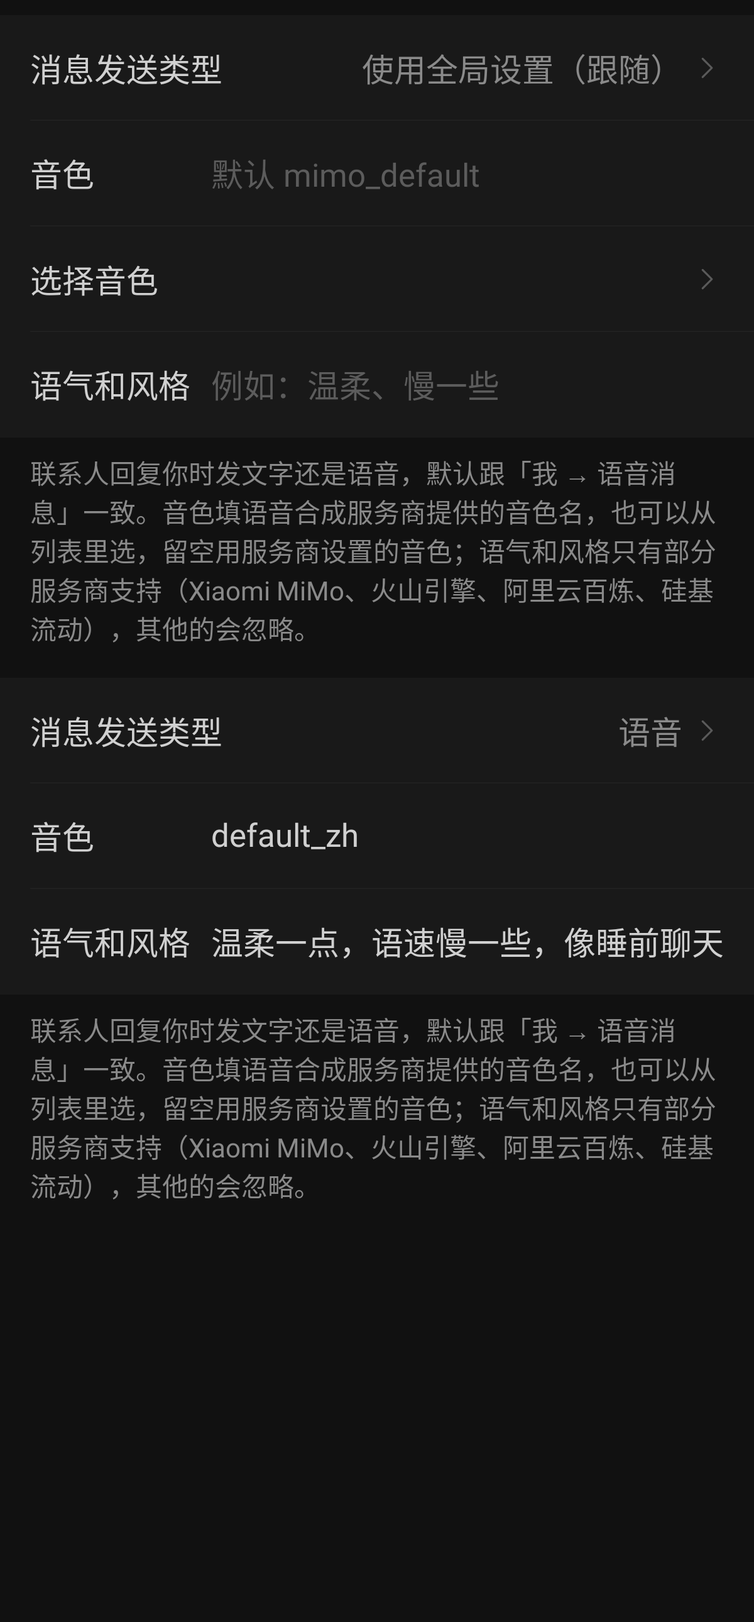
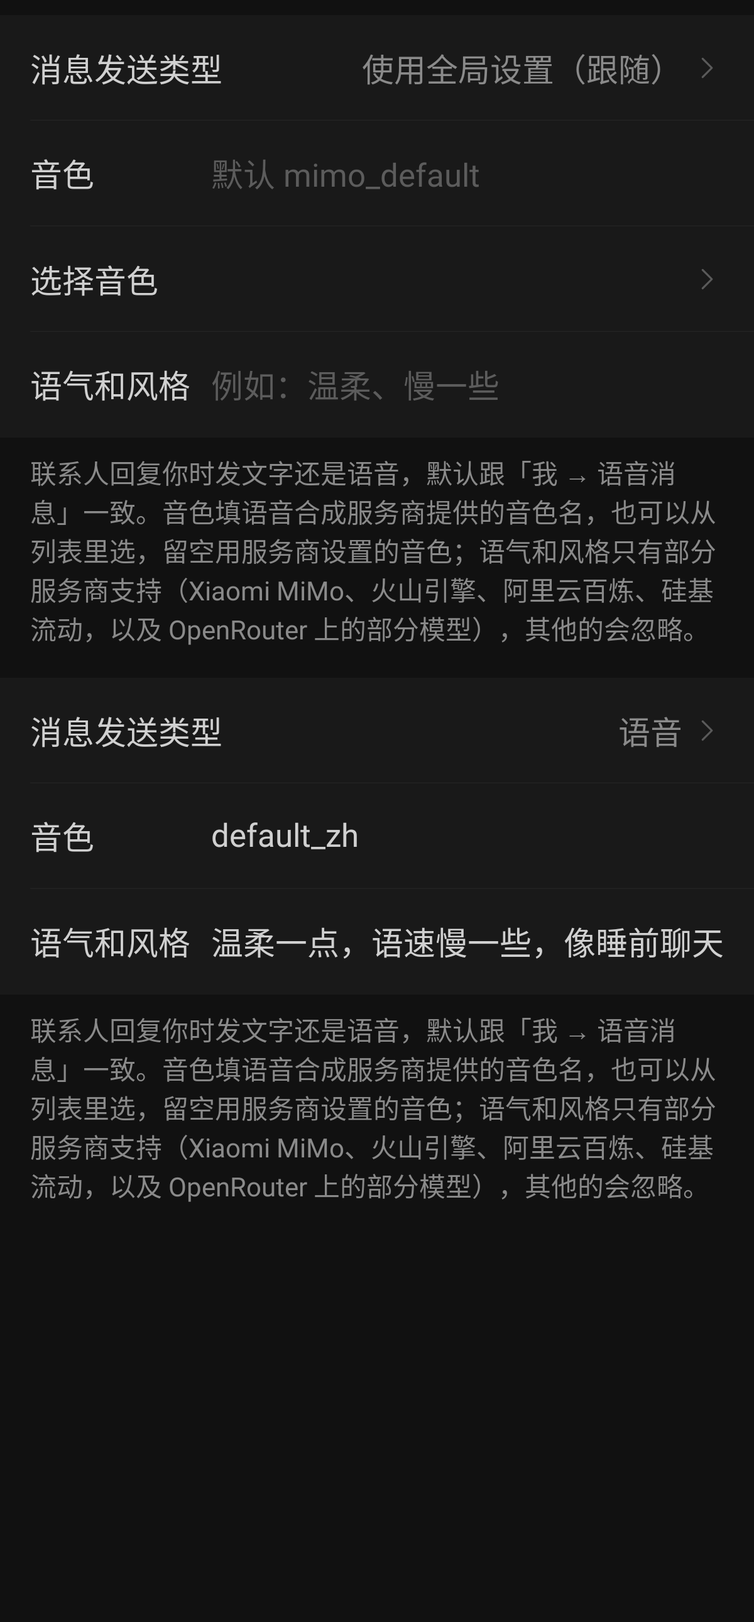
docs: 全面审查文档，修正 0.7.2 过时和遗漏的描述；联系人页语气风格说明补上 OpenRouter
- README：预置家数、试听、请求等待、目录说明、模拟接口的范围、版本历史
- 设计方案：语气风格的服务商、服务商编辑页、百炼聊天预置地址、429 按错误码、v7 → v8 迁移、新格式名、风险表
- 路线图：文首、内容分类、0.7.2 状态和验收标准、结果顺序、1.0.0 回归、未来储备、附录
- 隐私草稿：WAV 和 pcm 压成 AAC、智谱分段上传、语气风格的服务商
- 0.7.2 更新说明：智谱的 AI 生成标识、海外服务器、OpenRouter 转发、手填音色
- 界面：联系人编辑页的语音说明（重录 76-contact-voice 两张截图）

diff --git a/app/src/main/java/isomeria/aichat/data/voice/VoiceApi.kt b/app/src/main/java/isomeria/aichat/data/voice/VoiceApi.kt
@@ -144,7 +144,7 @@ class AsrRequest(val model: String, val wav: ByteArray, val language: String = L
     }
 }
 
-/** 识别结果；[seconds] 是服务商报告的音频时长（MiMo、百炼的 usage.seconds，火山的 audio_info.duration），没有时为 null。 */
+/** 识别结果；[seconds] 是服务商报告的音频时长（MiMo、百炼、OpenRouter 的 usage.seconds，火山的 audio_info.duration，Fish Audio 的 duration），没有时为 null。 */
 data class AsrResult(val text: String, val seconds: Double? = null) {
     override fun toString() = "AsrResult(chars=${text.length}, seconds=$seconds)"
 }

diff --git a/docs/roadmap.md b/docs/roadmap.md
@@ -2,9 +2,9 @@
 
 适用范围：以已发布的 v0.4.1 为基线（0.4.2～0.7.1 的变化记在各自小节），规划 v0.7.2 至 v1.0.0；v0.4.0～v0.7.1 保留为已完成记录
 平台：Android 14+（minSdk 34，targetSdk 37），包名 isomeria.aichat，数据全部本地存储
-更新于 2026-11-12。**v0.7.1 / versionCode 701 已于 2026-11-12 发布，是当前正式版。** 用户 2026-11-12 决定下一个版本先做 0.7.2（在 0.8.0 之前继续打磨），同日给出三项内容（自动记忆提炼重点、导出时选择内容、更多语音服务商和选音色），全部按讨论时的推荐做法定下并开工，在 `feature/0.7.2` 开发中；0.8.0（语音通话）排在它后面。
+更新于 2026-11-12。**v0.7.1 / versionCode 701 已于 2026-11-12 发布，是当前正式版。** 用户 2026-11-12 决定下一个版本先做 0.7.2（在 0.8.0 之前继续打磨），同日给出三项内容（自动记忆提炼重点、导出时选择内容、更多语音服务商和选音色），全部按讨论时的推荐做法定下并开工；第一次门禁后又补充了智谱、Fish Audio 识别和 OpenRouter 三家语音服务商（0.7.2 小节的 3b），在 `feature/0.7.2` 开发中，还没有真机验证；0.8.0（语音通话）排在它后面。
 
-内容分三类：第二节（v0.4.1 基线）和 0.4.0～0.7.1 小节是已发布事实，0.4.2～0.6.0 小节前半是实际结果，后半保留原计划；0.7.0、0.7.1 小节前面是计划，末尾“开发结果”是实际结果；0.7.2 起的小节是未来计划，其中“现在”“现有”在第二节指 v0.4.1 的实现，在 0.6.0 及以后的原计划部分指写计划时（0.4.2）的实现，0.5.0～0.7.0 带来的变化以各自小节为准。附录是修订历史，附录里的“当前/下一个”只代表当时。
+内容分三类：第二节（v0.4.1 基线）和 0.4.0～0.7.1 小节是已发布事实，0.4.2～0.6.0 小节前半是实际结果，后半保留原计划；0.7.0、0.7.1 小节前面是计划，末尾“开发结果”是实际结果；0.7.2 小节同样前面是计划、末尾是开发中的结果（还没发布）；0.8.0 起的小节是未来计划，其中“现在”“现有”在第二节指 v0.4.1 的实现，在 0.6.0 及以后的原计划部分指写计划时（0.4.2）的实现，0.5.0～0.7.0 带来的变化以各自小节为准。附录是修订历史，附录里的“当前/下一个”只代表当时。
 
 本文的产品取舍已按用户 2026-11-07 最新确认的《智信 AIChat 更新计划.md》更新，开发时直接执行，不再逐项询问；实施中出现文档没有覆盖的实质问题时再问。
 
@@ -632,7 +632,7 @@
 
 ### 0.7.2 继续打磨（开发中）
 
-**状态**：用户 2026-11-12（0.7.1 发布后）决定在 0.8.0 之前另开 0.7.2 继续打磨，同日给出三项内容；讨论后用户让三项和其中要定的问题全部按推荐做法来，并同意开工。在 `feature/0.7.2`（从 `main` `f3baea5` 出发）开发，三项分别提交。真机验证前先问用户，发布要用户另外同意。
+**状态**：用户 2026-11-12（0.7.1 发布后）决定在 0.8.0 之前另开 0.7.2 继续打磨，同日给出三项内容；讨论后用户让三项和其中要定的问题全部按推荐做法来，并同意开工。在 `feature/0.7.2`（从 `main` `f3baea5` 出发）开发，三项分别提交；第一次门禁后用户又提出 3b，同样梳理、按推荐做完。真机验证前先问用户，发布要用户另外同意。
 
 **1. 自动记忆提炼重点（用户的要求：自动生成的记忆要总结出重要内容，不然占的上下文太长，还会影响模型注意力）**
 
@@ -671,15 +671,15 @@
 
 - 上下文开得很大时记忆总量不超过约 1500 token；近期记忆超出时整理出核心记忆，整理期间用户改了记忆就放弃这次整理；没有值得记的聊天不生成记忆；Room 7 → 8 迁移后旧记忆不丢；
 - 只导出一部分时文件里只有选中的内容和它们用到的文件，API Key 只跟着模型配置；恢复只替换选中的，没选的不变；联系人找不到服务商时提醒；0.7.1 的备份照常恢复；
-- 各家格式对着本机模拟接口的请求和返回都按官方文档；选音色页能搜索、试听，缺 Key、地址不对时说明原因；
+- 各家格式对着本机模拟接口的请求和返回都按官方文档；选音色页能搜索、试听，缺 Key、地址不对时说明原因；智谱识别超过 30 秒的录音能分段识别、拼起来；智谱的余额不足不被说成请求过快；
 - 不调用真实服务商；新格式能不能真正用通要用户拿自己的 Key 试。
 
 **开发结果（2026-11-12，`feature/0.7.2`，开发中）：**
 
 - 分批提交：`8b92e89` 记忆分两层（Room v8）、`b664437` 导出和恢复选择内容（备份 v8）、`4e77c46` 语音服务商预置和选音色，之后是版本号、文档和截图；第一次门禁后另加 3b 的智谱、Fish Audio 识别和 OpenRouter（见下）。
 - **和计划不同或计划没写的**：试听**不计入用量统计**（讨论时说的是计入）：试听不属于哪个联系人，记到“已删除的联系人”会让统计看起来不对，所以只在页面上写明可能计费；内置的火山 2.0 音色列表按官方页面整理了 93 个（页面后半段没能读到，另外去掉了一个名称不合适的），百炼列了中文、英文、方言和其他系统音色共 88 个（小语种音色没有列），列表外的音色仍可手填 ID；MiniMax 国内地址用官方文档里的 `api.minimax.cn`；Fish Audio 的默认音色留空，要在选音色页选或手填。
-- 3b 的结果：`ebebb0b` 功能、`f7b1a45` 文档。无缓存门禁在 `f7b1a45` 上通过，1234 项 JVM 测试 0 失败 0 跳过，lint 0 错误、6 条依赖版本提示（同上），debug、release、perf 包构建成功；release 包名、版本 0.7.2 / 702 和签名证书已核对，release 包 15,033,045 字节、perf 包 15,052,253 字节。反向确认 20 处（智谱错误码和聊天接口的分类、分段和静音切点、prompt、wav、Fish 的字段和标记、pcm 的采样率、Gemini 要 pcm、instructions、usage.seconds、预置顺序和模型、智谱音色列表的参数和错误）都被测试抓到。新增截图：智谱识别和 OpenRouter 合成的服务商页、智谱选音色页、没有内置列表的选音色页。
 - 验证（3b 之前）：无缓存门禁在 `32471fe` 上通过，1209 项 JVM 测试（0.7.1 是 1157 项）0 失败 0 跳过，lint 0 错误、6 条依赖版本提示（和 0.7.1 相同，都是上游的新版本），debug、release、perf 包构建成功；release 包名、版本 0.7.2 / 702 和签名证书（与此前各版相同）已核对，签名文件与原备份哈希一致；perf 包 15,031,433 字节、release 包 15,012,273 字节，原生库和 0.7.1 一样（sherpa-onnx 只带 arm64-v8a）。
+- 3b 的结果：`ebebb0b` 功能、`f7b1a45` 文档。无缓存门禁在 `f7b1a45` 上通过，1234 项 JVM 测试 0 失败 0 跳过，lint 0 错误、6 条依赖版本提示（同上），debug、release、perf 包构建成功；release 包名、版本 0.7.2 / 702 和签名证书已核对，release 包 15,033,045 字节、perf 包 15,052,253 字节。反向确认 20 处（智谱错误码和聊天接口的分类、分段和静音切点、prompt、wav、Fish 的字段和标记、pcm 的采样率、Gemini 要 pcm、instructions、usage.seconds、预置顺序和模型、智谱音色列表的参数和错误）都被测试抓到。新增截图：智谱识别和 OpenRouter 合成的服务商页、智谱选音色页、没有内置列表的选音色页。
 - **没有做的**：没有调用任何真实的语音服务商，十种新格式（3b 又加了四种）和音色接口只对着官方文档和本机模拟接口测过；没有真机验证。
 
 ---
@@ -789,7 +789,7 @@
 - 后台投递、主动聊天、语音消息、离线识别模型的下载和语音通话在 App 被杀和设备重启后的表现；
 - 每日额度的计数与按日重置；
 - **之前明确留到这一轮的：** TalkBack 实际朗读、系统字体 2.0 叠加 App 特大、手势返回、横屏；
-- **七家预置的真实聊天、图片、思考、记忆请求**，至今只用模拟接口测过（真实调用先问用户，用户提供 Key）；
+- **七家预置的真实聊天、图片、思考、记忆请求**，至今只用模拟接口测过（真实调用先问用户，用户提供 Key）；0.7.2 的语音服务商格式同样只按文档和模拟接口做过，用户实测之外要逐家核对；
 - 图片查看的保存按钮、表情删除键等此前未完整实测的交互，先查对应验证记录，仅对缺失或受影响的部分补测，不把静态截图当作交互通过。
 
 **2. README 与隐私说明定稿**
@@ -817,7 +817,7 @@
 - AI 自动从聊天中提取并更新全局记忆（0.5.0 只做了用户手写的全局记忆，发送全部已启用条目，没有自动提取和自动挑选）
 - 数据库加密（SQLCipher），见下
 - 媒体文件加密
-- 更多 TTS / ASR 服务商适配
+- 更多 TTS / ASR 服务商适配（0.7.2 已预置合成 8 家、识别 7 家）
 - 语音通话的降噪、蓝牙路由和更细的音频设备切换
 - 全局聊天背景（0.4.2 只做单个聊天背景，0.9.0 未列入）
 
@@ -836,9 +836,9 @@
 
 ## 附录 T：2026-11-12 0.7.2 开工（当前）
 
-- 门禁后用户又加了语音服务商（智谱、Fish Audio 识别、OpenRouter），梳理后按推荐开工，写入 0.7.2 小节的 3b；README、设计方案、隐私草稿、更新说明同步。
-
 - 用户给出 0.7.2 的三项内容，讨论后全部按推荐做法定下并同意开工。文首、版本总览、依赖关系和 0.7.2 小节写入目标、做法、数据变化、验收标准和开发结果；README、设计方案、隐私草稿同步；新增 `docs/release-notes/v0.7.2.md`。桌面更新计划还没有 0.7.2，未改（只在用户要求时改）。
+- 门禁后用户又加了语音服务商（智谱、Fish Audio 识别、OpenRouter），梳理后按推荐开工，写入 0.7.2 小节的 3b；README、设计方案、隐私草稿、更新说明同步。
+- 用户要求全面审查文档：改了 README（预置家数、试听、目录说明、模拟接口的范围）、设计方案（语气风格的服务商、服务商编辑页、百炼聊天预置地址、429 的处理、v7 → v8 迁移、新格式名、风险表）、路线图（文首、内容分类、验收标准、结果的顺序、1.0.0 回归、未来储备）、隐私草稿（WAV 和 pcm 压成 AAC、智谱分段上传、语气风格的服务商）和 0.7.2 更新说明；顺带把联系人编辑页语音说明里支持语气风格的服务商补上 OpenRouter，改了界面文字，重跑门禁。
 
 ## 附录 S：2026-11-12 插入 0.7.2（历史）
 

diff --git a/docs/privacy-draft.md b/docs/privacy-draft.md
@@ -18,7 +18,7 @@
 | 全局记忆（0.5.0 起）：用户手写的类别、主题和条目 | 应用私有目录的 Room 数据库 | 系统的应用隔离和全盘加密；App 没有另外加密。开启“使用全局记忆”的联系人会把已启用的条目发给它的服务商，见下 |
 | API Key | 数据库的服务商配置表 | Android Keystore 加密后存放 |
 | 聊天图片、头像 | 应用私有目录 `files/images`、`files/avatars` | 系统的应用隔离和全盘加密 |
-| 语音消息（0.7.0 起）：用户的录音和联系人回复合成出的语音，转写文字存在聊天记录里 | 应用私有目录 `files/voice`。用户的录音先存 WAV，识别成功后压成 AAC（m4a）、删掉 WAV；服务商合成的语音按返回的格式保存（如 mp3），0.7.1 起系统语音合成的语音压成 AAC（m4a）保存 | 系统的应用隔离和全盘加密；计入存储空间；删除消息、清空聊天、删除联系人时一起删除；随导出文件导出 |
+| 语音消息（0.7.0 起）：用户的录音和联系人回复合成出的语音，转写文字存在聊天记录里 | 应用私有目录 `files/voice`。用户的录音先存 WAV，识别成功后压成 AAC（m4a）、删掉 WAV；服务商合成的语音按返回的格式保存（如 mp3），0.7.1 起系统语音合成的语音压成 AAC（m4a）保存，0.7.2 起服务商返回 WAV（智谱）或裸 pcm（OpenRouter 上的部分模型，先包成 WAV）时也压成 AAC | 系统的应用隔离和全盘加密；计入存储空间；删除消息、清空聊天、删除联系人时一起删除；随导出文件导出 |
 | 语音服务商（0.7.0 起）：语音合成和语音识别的地址、模型、音色和 API Key | 数据库的服务商配置表 | API Key 和大语言模型的一样经 Android Keystore 加密 |
 | 离线识别模型（0.7.1 起）：SenseVoice Small 的模型文件（约 239.5 MB）和词表，下载中的部分叫 `.part` | 应用私有目录 `files/asr-models` | 系统的应用隔离和全盘加密；计入存储空间；在离线识别页删除；不随导出文件导出 |
 | 聊天背景 | 应用私有目录 `files/background`，用户从相册选的图片重新压缩后的副本，不含 EXIF | 系统的应用隔离和全盘加密；只在本机显示，不发给模型服务商；删除聊天或联系人时删除 |
@@ -59,8 +59,8 @@
 | 联系人所用的模型服务商 | 发送消息、重试、重新生成 | 系统提示词、这个联系人的记忆、当前日期时间和用户昵称、预算内的聊天记录、模型参数和 API Key；模型支持图片时，还包括最近 3 张图片的压缩原图。0.5.0 起，联系人开启“使用全局记忆”时还包括**全部已启用的全局记忆条目**（连同类别和主题名称），开启“使用回复偏好”时还包括回复条数和字数的要求。0.6.0 起，开启“主动聊天”的联系人还包括一段“怎么记下约定时间”的说明。人设、记忆、全局记忆、回复偏好要求和这段说明都为空时不发送系统提示词，时间和昵称也不发送 |
 | 联系人所用的模型服务商（0.6.0 起，**没有用户操作时**） | 只有用户为这个联系人开启了“主动聊天”：后台周期检查（约 15 分钟一次）或 App 回到前台时掷中概率，或用户和联系人约好的时间到了 | 和发送消息时相同的内容（系统提示词、记忆、全局记忆、日期时间和昵称、预算内的聊天记录及最近 3 张图片、模型参数和 API Key），外加一条 App 生成的提示（现在的时间、距上一条消息多久，或约好的时间和事由）。模型决定不发时（只回 `[SKIP]`）内容同样已经发出 |
 | 联系人所用的服务商（请求记忆模型） | 自动或手动总结记忆、合并记忆（0.7.2 起改为整理核心记忆） | 联系人名称、用户昵称、要总结的聊天文字或要合并的记忆（0.7.2 起是现有的核心记忆和要整理的几条近期记忆）、模型参数和 API Key。图片只以文字“[图片]”代替 |
-| 用户选用的语音识别服务商（0.7.0 起） | 用户按住说话发出语音（回复任务先识别）、重试识别失败的语音、用输入框旁的麦克风录音转文字 | 这段录音（16 kHz 单声道 WAV，最长 60 秒）、模型名和 API Key；聊天接口格式（如 Xiaomi MiMo）还带“自动识别语言”的选项。不带聊天记录、人设和记忆 |
-| 用户选用的语音合成服务商（0.7.0 起） | 联系人这一轮回语音时（按消息发送类型：跟随模式下用户发了语音、语音模式下每次回复；语音模式下的主动消息也是，这时**没有用户操作**） | 联系人回复的文字（按长度分成一两段或几段，每段一次请求）、模型名、音色、API Key；聊天接口格式还带联系人设置的“语气和风格”（0.7.2 起火山引擎 2.0 音色、百炼和硅基流动 CosyVoice2 也带）。不带聊天记录、人设和记忆。0.7.2 起用户在选音色页点“试听”时也发一次：一句固定的话、模型名、音色和 API Key |
+| 用户选用的语音识别服务商（0.7.0 起） | 用户按住说话发出语音（回复任务先识别）、重试识别失败的语音、用输入框旁的麦克风录音转文字 | 这段录音（16 kHz 单声道 WAV，最长 60 秒）、模型名和 API Key；聊天接口格式（如 Xiaomi MiMo）还带“自动识别语言”的选项。0.7.2 起发给智谱时，超过 25 秒的录音切成几段分别上传，后一段带上前面识别出的文字。不带聊天记录、人设和记忆 |
+| 用户选用的语音合成服务商（0.7.0 起） | 联系人这一轮回语音时（按消息发送类型：跟随模式下用户发了语音、语音模式下每次回复；语音模式下的主动消息也是，这时**没有用户操作**） | 联系人回复的文字（按长度分成一两段或几段，每段一次请求）、模型名、音色、API Key；聊天接口格式还带联系人设置的“语气和风格”（0.7.2 起火山引擎 2.0 音色、百炼、硅基流动 CosyVoice2 和 OpenRouter 上的 Gemini TTS、OpenAI、Fish Audio 模型也带）。不带聊天记录、人设和记忆。0.7.2 起用户在选音色页点“试听”时也发一次：一句固定的话、模型名、音色和 API Key |
 | 用户填写的语音合成服务商地址（0.7.2 起） | 用户打开选音色页时：MiniMax 取音色列表、硅基流动取自己上传的音色、智谱取自己复刻的音色、Fish Audio 取自己的音色和热门公开音色；在 Fish Audio 的选音色页搜索时 | API Key；Fish Audio 的搜索还带用户输入的关键词。不带聊天数据。MiMo、火山引擎、百炼、智谱系统音色和 OpenRouter 上 Gemini TTS、OpenAI 模型的音色列表内置在 App 里，不联网 |
 | 手机上的系统语音合成引擎（0.7.1 起，例如手机厂商或其他 App 提供的“文字转语音”引擎） | 用户选用了“系统语音（本机）”，联系人这一轮回语音时 | 联系人回复的文字。交给手机里的引擎在本机合成：App 只选不需要联网的中文音色，并要求引擎不用联网合成；引擎是另一家 App，它自己如何处理由它的隐私政策约束 |
 | 魔搭社区（ModelScope，`www.modelscope.cn`，下载时跳转到它的 CDN `*.modelscope.cn`）（0.7.1 起） | 用户在离线识别页点“下载模型”或“继续下载”，确认之后；回到桌面也接着下（前台任务），断网时等网络恢复再接着下（最多重试 5 次） | 普通 HTTP 请求（文件名和断点续传的位置），不带任何聊天数据、录音或 Key；对方能看到设备 IP。下载的文件按写死的 SHA-256 校验 |

diff --git a/docs/release-notes/v0.7.2.md b/docs/release-notes/v0.7.2.md
@@ -2,10 +2,10 @@
 
 （发布日期待定）
 
-- **记忆更精炼**：联系人的记忆分成“核心记忆”和“近期记忆”两组。核心记忆记着现在仍然成立的重要事实，近期记忆是最近几段聊天的总结；近期记忆多了，最早的几条会和核心记忆一起整理成新的核心记忆。每次聊天带的记忆合计最多约 1500 token，不再随上下文上限变长；总结只记重要内容，闲聊不再生成记忆。升级前积累的记忆会在之后几次回复里自动整理（整理会用联系人的记忆模型，计入记忆用量）。核心记忆可以在记忆页编辑和删除。
+- **记忆更精炼**：联系人的记忆分成“核心记忆”和“近期记忆”两组。核心记忆记着现在仍然成立的重要事实，近期记忆是最近几段聊天的总结；近期记忆多了，最早的几条会和核心记忆一起整理成新的核心记忆。每次聊天带的记忆合计最多约 1500 token，不再随上下文上限变长；总结只记重要内容，没有值得记的闲聊不再生成记忆。升级前积累的记忆会在之后几次回复里自动整理（整理会用联系人的记忆模型，计入记忆用量）。核心记忆可以在记忆页编辑和删除。
 - **导出和恢复可以选择内容**：在“我 → 数据管理”导出时，可以只选联系人、聊天记录、联系人记忆、用量统计、全局记忆、模型配置、回复偏好、主动聊天设置、语音消息设置、个人资料和外观中的几项，默认全选；API Key 只跟着模型配置导出。恢复时也能只选文件里的某几项，没选的内容保持本机原样。覆盖恢复前不再单独问是否保留本机的全局记忆，不想换就在恢复内容里不选它。
-- **更多语音服务商**：语音合成新增火山引擎（豆包）、阿里云百炼（千问）、BigModel（智谱）、MiniMax、Fish Audio、OpenRouter，硅基流动也能合成；语音识别新增火山引擎（豆包）、阿里云百炼（千问）、BigModel（智谱）、Fish Audio、OpenRouter。智谱一次只能识别 30 秒，更长的录音会分段识别再拼起来。语气和风格要求现在对 Xiaomi MiMo、火山引擎、阿里云百炼、硅基流动，以及 OpenRouter 上的 Gemini TTS 等模型生效。
-- **选音色**：服务商页和联系人编辑页可以打开音色列表，按名称搜索、分组查看、点“试听”听一句（试听会调用服务商，可能产生少量费用，不计入用量统计）。没在列表里的音色仍可手填。
+- **更多语音服务商**：语音合成新增火山引擎（豆包）、阿里云百炼（千问）、BigModel（智谱）、MiniMax、Fish Audio、OpenRouter，硅基流动也能合成；语音识别新增火山引擎（豆包）、阿里云百炼（千问）、BigModel（智谱）、Fish Audio、OpenRouter。智谱一次只能识别 30 秒，更长的录音会分段识别再拼起来；智谱合成的语音按服务商默认带 AI 生成标识。Fish Audio 和 OpenRouter 的服务器在海外，OpenRouter 会把文字和录音转给你选的模型背后的服务商。语气和风格要求现在对 Xiaomi MiMo、火山引擎、阿里云百炼、硅基流动，以及 OpenRouter 上的 Gemini TTS 等模型生效。
+- **选音色**：服务商页和联系人编辑页可以打开音色列表，按名称搜索、分组查看、点“试听”听一句（试听会调用服务商，可能产生少量费用，不计入用量统计）。没在列表里的音色仍可手填（OpenRouter 上除 Gemini TTS 和 OpenAI 以外的模型没有内置列表，要手填）。
 - 聊天服务商的“智谱”预置改名为“BigModel（智谱）”，已保存的连接名称不变；用智谱聊天时，余额不足不再被说成“请求过快”。
 - 阿里云百炼（语音和聊天）的预置地址改成业务空间专属地址，新建时要把地址里的 {WorkspaceId} 换成自己的业务空间 ID；已保存的连接不受影响。
 
